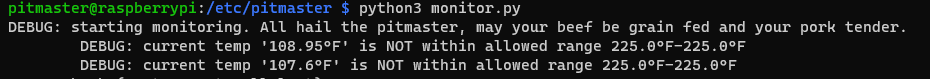
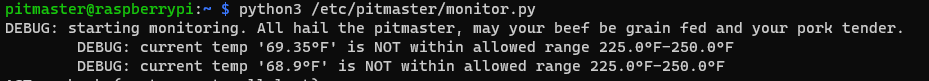
pitmastering

diff --git a/monitor.py b/monitor.py
@@ -10,8 +10,11 @@ import urllib3
 import os
 import json
 from utils import convert_celsius_to_fahrenheit, convert_fahrenheit_to_celsius
+from threading import Thread
 
 CURRENT_SCRIPT_PATH = os.path.dirname(os.path.realpath(__file__))
+CONFIG_PATH = os.path.join(CURRENT_SCRIPT_PATH, 'config.yml')
+NODE_EXPORTER_PATH = os.path.join(CURRENT_SCRIPT_PATH, 'pitmaster_export.json')
 urllib3.disable_warnings()
 
 degree_sign = u'\N{DEGREE SIGN}'
@@ -26,7 +29,7 @@ GPIO.setup(LED_PIN_RED, GPIO.OUT)
 
 
 def load_config():
-    with open("config.yml", 'r') as raw_yml:
+    with open(CONFIG_PATH, 'r') as raw_yml:
         config = yaml.safe_load(raw_yml)
         # convert MINIMUM range to celsius if provided in fahrenheit only
         if not config['temperature_minimum_celsius'] and config['temperature_minimum_fahrenheit']:
@@ -37,33 +40,46 @@ def load_config():
         if not config['temperature_maximum_celsius'] and config['temperature_maximum_fahrenheit']:
             config['temperature_display_mode'] = 'fahrenheit'
             config['temperature_maximum_celsius'] = convert_fahrenheit_to_celsius(
-                config['temperature_minimum_fahrenheit'])
+                config['temperature_maximum_fahrenheit'])
 
         if not config['temperature_minimum_celsius'] or not config['temperature_maximum_celsius']:
             print(f"missing required temperature range")
             exit(1)
 
-        if not config['temperature_display_mode']:
+        if not config['temperature_display_mode'] or config['temperature_display_mode'] != 'fahrenheit':
             config['temperature_display_mode'] = 'celsius'
 
         return config
 
 
-config = load_config()
+def read_temperature_celsius():
+    # return 52
+    return max31855.temperature
 
 
-def pretty_print_temperature(config, temperature_celsius):
+def summarize_temperature(config, temperature_celsius):
+    if is_temperature_acceptable(config, temperature_celsius):
+        return f"Current temperature '{pretty_print_temperature_value(config, temperature_celsius)}' IS within allowed range ({pretty_print_temperature_value(config, config['temperature_minimum_celsius'])}-{pretty_print_temperature_value(config, config['temperature_maximum_celsius'])})."
+    else:
+        return f"Current temperature '{pretty_print_temperature_value(config, temperature_celsius)}' is NOT within allowed range ({pretty_print_temperature_value(config, config['temperature_minimum_celsius'])}-{pretty_print_temperature_value(config, config['temperature_maximum_celsius'])})."
+
+
+def pretty_print_temperature_value(config, temperature_celsius):
     if config['temperature_display_mode'] == 'fahrenheit':
         return f"{str(convert_celsius_to_fahrenheit(temperature_celsius))}{degree_sign}F"
     else:
         return f"{str(temperature_celsius)}{degree_sign}C"
 
 
-def push_notification(config, markdown_message):
+def is_temperature_acceptable(config, temperature_celsius):
+    return temperature_celsius >= config['temperature_minimum_celsius'] and temperature_celsius < config['temperature_maximum_celsius']
+
+
+def push_notification(config, title, markdown_message, priority):
     payload = {
         'topic': config['push_notification']['ntfy']['topic'],
-        'priority': 4,
-        'title': config['push_notification']['ntfy']['title'],
+        'priority': priority,
+        'title': title,
         'message': f"{markdown_message}"
     }
     for ntfy_server in config['push_notification']['ntfy']['servers']:
@@ -74,26 +90,41 @@ def push_notification(config, markdown_message):
             print(f"\t{res.text}")
 
 
-if __name__ == '__main__':
-    start_time = timer()
-    config = load_config()
+def periodic_status_report_forever(config):
+    print(
+        f"DEBUG: starting periodic status report to notify every {config['notify_temperature_every_seconds']} seconds")
     try:
-        print(f"DEBUG: starting monitoring. All hail the pitmaster, may your beef be grain fed and your pork tender.")
         while True:
-            current_temperature_celsius = max31855.temperature
-            with open(os.path.join(CURRENT_SCRIPT_PATH, 'pitmaster_export.json'), 'w') as f:
+            current_temperature_celsius = read_temperature_celsius()
+            message = summarize_temperature(
+                config, current_temperature_celsius)
+            print(message)
+            push_notification(config, 'Periodic Report', message, 1)
+            sleep(config['notify_temperature_every_seconds'])
+    except Exception as e:
+        print(e)
+        print(f"DEBUG: shutting down periodic status report.")
+
+
+def monitor_forever(config):
+    print(
+        f"DEBUG: starting monitoring to read every {config['read_temperature_after_seconds']} seconds.")
+    try:
+        while True:
+            current_temperature_celsius = read_temperature_celsius()
+            with open(NODE_EXPORTER_PATH, 'w') as f:
                 json.dump(
                     {'current_temperature_celsius': current_temperature_celsius}, f)
-            if current_temperature_celsius >= config['temperature_minimum_celsius'] and current_temperature_celsius < config['temperature_maximum_celsius']:
-                print(
-                    f"\tDEBUG: current temp '{pretty_print_temperature(config, current_temperature_celsius)}' IS within allowed range {pretty_print_temperature(config, config['temperature_minimum_celsius'])}-{pretty_print_temperature(config, config['temperature_maximum_celsius'])}")
+            message = summarize_temperature(
+                config, current_temperature_celsius)
+            print(f"DEBUG: {message}")
+            if is_temperature_acceptable(config, current_temperature_celsius):
                 GPIO.output(LED_PIN_RED, GPIO.LOW)
                 GPIO.output(LED_PIN_GREEN, GPIO.HIGH)
                 sleep(config['indicate_led_for_seconds'])
                 GPIO.output(LED_PIN_GREEN, GPIO.LOW)
             else:
-                message = f"\tDEBUG: current temp '{pretty_print_temperature(config, current_temperature_celsius)}' is NOT within allowed range {pretty_print_temperature(config, config['temperature_minimum_celsius'])}-{pretty_print_temperature(config, config['temperature_maximum_celsius'])}"
-                push_notification(config, message)
+                push_notification(config, 'Problem', message, 4)
                 GPIO.output(LED_PIN_GREEN, GPIO.LOW)
                 GPIO.output(LED_PIN_RED, GPIO.HIGH)
                 sleep(config['indicate_led_for_seconds'])
@@ -107,3 +138,16 @@ if __name__ == '__main__':
         GPIO.output(LED_PIN_GREEN, GPIO.LOW)
         GPIO.output(LED_PIN_RED, GPIO.LOW)
         GPIO.cleanup()
+
+
+if __name__ == '__main__':
+    start_time = timer()
+    config = load_config()
+    if config['start_message']:
+        print(config['start_message'])
+
+    Thread(target=monitor_forever, args=(config,)).start()
+    if config['notify_temperature_every_seconds'] and config['notify_temperature_every_seconds'] > 0:
+        Thread(target=periodic_status_report_forever, args=(config,)).start()
+    else:
+        print(f"DEBUG: update config.yml 'notify_temperature_every_seconds' to be > 0 if you want periodic notifications.")

diff --git a/pitmaster_exporter.py b/pitmaster_exporter.py
@@ -9,8 +9,8 @@ CURRENT_SCRIPT_PATH = os.path.dirname(os.path.realpath(__file__))
 PORT = 30026
 ADDRESS = "0.0.0.0"
 POLL_EXPORTED_FILE_SECONDS = 5
-TEMPERATURE_EXPORT_PATH = os.path.join(
-    CURRENT_SCRIPT_PATH, 'pitmaster_export.json')
+NODE_EXPORTER_PATH = os.path.join(CURRENT_SCRIPT_PATH, 'pitmaster_export.json')
+
 
 pitmaster_temperature_celsius_gauge = Gauge('pitmaster_temperature_celsius',
                                             'The current temperature of the pit in celsius')
@@ -23,12 +23,12 @@ REQUEST_TIME = Summary('request_processing_seconds',
 
 def refresh_current_temp_gauges():
     temperature_celsius = -1
-    if os.path.exists(TEMPERATURE_EXPORT_PATH):
-        with open(TEMPERATURE_EXPORT_PATH, 'r') as f:
+    if os.path.exists(NODE_EXPORTER_PATH):
+        with open(NODE_EXPORTER_PATH, 'r') as f:
             payload = json.load(f)
             temperature_celsius = payload['current_temperature_celsius']
     else:
-        print(f"\tDEBUG: {TEMPERATURE_EXPORT_PATH} does not exist")
+        print(f"\tDEBUG: {NODE_EXPORTER_PATH} does not exist")
     pitmaster_temperature_celsius_gauge.set(temperature_celsius)
     pitmaster_temperature_fahrenheit_gauge.set(
         convert_celsius_to_fahrenheit(temperature_celsius))

diff --git a/README.md b/README.md
@@ -130,18 +130,16 @@ Otherwise you will share temps with the world and receive the temps of others :)
 
 ## Simple deployment
 
-Get the required files onto the rpi3. You can use whatever method you like, this will put them in the pitmaster's home directory from a bash shell:
-
-```sh
-rsync config.yml pitmaster@192.168.1.96:~/
-rsync monitor.py pitmaster@192.168.1.96:~/
-rsync requirements.txt pitmaster@192.168.1.96:~/
-```
-
 SSH into the pi
 
 ```sh
 ssh pitmaster@192.168.1.96
+```
+
+Grab the files from this repository
+
+```sh
+git clone https://github.com/aTable/pitmaster
 ```
 
 Install the required dependencies
@@ -178,14 +176,71 @@ The full setup includes:
 - ntfy push notification server
 - caddy reverse proxy
 
-Create an SSH key on your host, start an SSH agent and add the key
+The high level flow:
+
+- `monitor.py` reads every `config.yml` property `read_temperature_after_seconds` seconds
+  - saves temperature and current time to disk in `pitmaster_export.json`
+  - immediate range check to blink LEDs and send push notification
+- `pitmaster_exporter.py` reads `pitmaster_export.json` every 5 seconds and exposes metrics for prometheus
+- prometheus scrapes pitmaster exporter every 5 seconds
+  - [rules](configuration/roles/prometheus/files/) are applied to scraped metrics
+    - when any rule is triggered, [prometheus notifies](configuration/roles/prometheus/files/prometheus.yml) alertmanager
+    - [alertmanager pushes](configuration/roles/prometheus_alertmanager/files/alertmanager.yml) to the ntfy_alertmanager_bridge receiver
+    - [ntfy_alertmanager_bridge pushes](configuration/roles/prometheus_alertmanager_ntfy_bridge/tasks/main.yml) to ntfy
+- ntfy sends the notification to your connected browser or mobile app
+
+On your desktop computer, Create an SSH key
+
+```sh
+ssh-keygen -t ed25519 -a 100
+```
+
+start an SSH agent
+
+```sh
+eval $(ssh-agent -s)
+```
+
+add the key to the running agent
+
+```sh
+ssh-add ~/.ssh/id_ed25519
+```
 
 Create the user on the pi
 
+```sh
+sudo adduser pitmaster
+```
+
 Add the created SSH key to the pi user's `~/.ssh/authorized_keys`
+
+```sh
+nvim ~/.ssh/authorized_keys
+```
+
+All the steps outlined above only needs to be done once.
 
 Provision with ansible
 
 ```sh
 ansible-playbook -i configuration/production.yml configuration/rpi3.yml
+```
+
+Run caddy to serve the website and ntfy instance on https:// (required for live push notifications)
+
+```sh
+caddy start --config /etc/caddy/Caddyfile
+```
+
+Run pitmaster exporter to expose metrics to prometheus
+
+```sh
+python3 /etc/pitmaster/pitmaster_exporter.py
+```
+
+Run the monitor
+
+```sh
+python3 /etc/pitmaster/monitor.py
 ```
